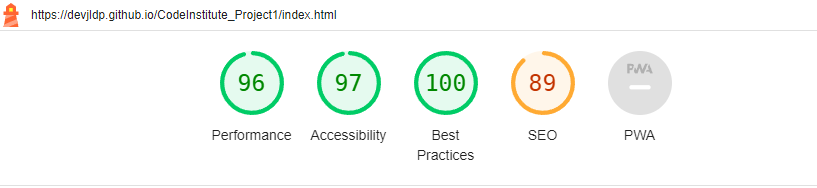
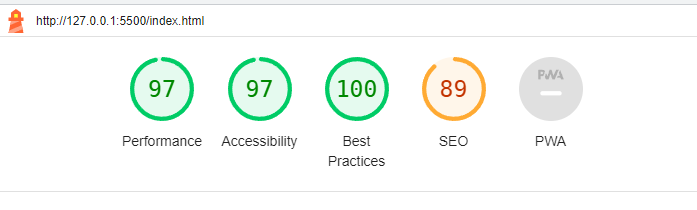
Updating readme and fixing lighthouse issues

diff --git a/contact.html b/contact.html
@@ -4,6 +4,7 @@
     <meta charset="UTF-8">
     <meta http-equiv="X-UA-Compatible" content="IE=edge">
     <meta name="viewport" content="width=device-width, initial-scale=1.0">
+    <meta name="description" content="Author: Jose Luis Diaz Pulgar">
     <title>Wedding Wishes & Dreams</title>
     <link rel="icon" href="assets/img/ring-icon.jpg">
     <link href="https://cdn.jsdelivr.net/npm/bootstrap@5.3.0-alpha3/dist/css/bootstrap.min.css" rel="stylesheet" integrity="sha384-KK94CHFLLe+nY2dmCWGMq91rCGa5gtU4mk92HdvYe+M/SXH301p5ILy+dN9+nJOZ" crossorigin="anonymous">
@@ -36,7 +37,7 @@
                                         <a href="gallery.html" class="navbar-link nav-item">Gallery</a>
                                     </li>
                                     <li class="navbar-item mr-2 inline-block-nav">
-                                        <a href="aboutus.html" class="navbar-link nav-item">About Us</a>
+                                        <a href="aboutus.html" class="navbar-link nav-item">About</a>
                                     </li>
                                     <li class="navbar-item mr-2 inline-block-nav">
                                         <a href="#" class="navbar-link nav-item active">Contact</a>
@@ -95,7 +96,7 @@
                         <input type="email" name="email" id="email" class="form-control" placeholder="email@example.com" required>
                     </div>
                     <div class="mt-2 text-area">
-                        <textarea name="question" id="question" cols="47" rows="10"></textarea>
+                        <textarea id="question" cols="47" rows="10" aria-label="message"></textarea>
                     </div>
                     <div class="text-center">
                         <button type="submit" class="btn btn-form">Send</button>
@@ -112,8 +113,7 @@
                         <li>Sunday: Closed</li>
                     </ul>
                 </div>
-                <iframe width="80%" height="300" frameborder="0" scrolling="no" marginheight="0" marginwidth="0" src="https://maps.google.com/maps?width=100%25&amp;height=600&amp;hl=en&amp;q=cardiff%20church%20st+(Wedding%20Wishes%20and%20Dreams)&amp;t=&amp;z=14&amp;ie=UTF8&amp;iwloc=B&amp;output=embed">
-                    <a href="https://www.maps.ie/distance-area-calculator.html">measure area map</a>
+                <iframe  height="300" src="https://maps.google.com/maps?width=100%25&amp;height=600&amp;hl=en&amp;q=cardiff%20church%20st+(Wedding%20Wishes%20and%20Dreams)&amp;t=&amp;z=14&amp;ie=UTF8&amp;iwloc=B&amp;output=embed" title="Wedding store" class = 'frame'>
                 </iframe>
             </div>
 
@@ -130,17 +130,17 @@
                     <p>Follow us:</p>
                     <ul class="text-center mt-3">
                         <li class="inline-block-foot">
-                            <a href="https://www.facebook.com/" target="_blank" rel="noopener noreferrer">
+                            <a href="https://www.facebook.com/" target="_blank" rel="noopener noreferrer" aria-label="facebook">
                                 <i class="fa-brands fa-square-facebook"></i>
                             </a>
                         </li>
                         <li class="inline-block-foot">
-                            <a href="https://twitter.com/" target="_blank" rel="noopener noreferrer">
+                            <a href="https://twitter.com/" target="_blank" rel="noopener noreferrer" aria-label="twitter">
                                 <i class="fa-brands fa-twitter"></i>
                             </a>
                         </li>
                         <li class="inline-block-foot">
-                            <a href="https://www.instagram.com/" target="_blank" rel="noopener noreferrer">
+                            <a href="https://www.instagram.com/" target="_blank" rel="noopener noreferrer" aria-label="instagram">
                                 <i class="fa-brands fa-instagram"></i>
                             </a>
                         </li>

diff --git a/index.html b/index.html
@@ -4,6 +4,7 @@
     <meta charset="UTF-8">
     <meta http-equiv="X-UA-Compatible" content="IE=edge">
     <meta name="viewport" content="width=device-width, initial-scale=1.0">
+    <meta name="description" content="Author: Jose Luis Diaz Pulgar">
     <title>Wedding Wishes & Dreams</title>
     <link rel="icon" href="assets/img/ring-icon.jpg">
     <link href="https://cdn.jsdelivr.net/npm/bootstrap@5.3.0/dist/css/bootstrap.min.css" rel="stylesheet" integrity="sha384-9ndCyUaIbzAi2FUVXJi0CjmCapSmO7SnpJef0486qhLnuZ2cdeRhO02iuK6FUUVM" crossorigin="anonymous">
@@ -38,7 +39,7 @@
                                             <a href="gallery.html" class="navbar-link nav-item">Gallery</a>
                                         </li>
                                         <li class="navbar-item mr-2 inline-block-nav">
-                                            <a href="aboutus.html" class="navbar-link nav-item">About Us</a>
+                                            <a href="aboutus.html" class="navbar-link nav-item">About</a>
                                         </li>
                                         <li class="navbar-item mr-2 inline-block-nav">
                                             <a href="contact.html" class="navbar-link nav-item">Contact</a>
@@ -100,17 +101,17 @@
                     <p>Follow us:</p>
                     <ul class="text-center mt-3">
                         <li class="inline-block-foot">
-                            <a href="https://www.facebook.com/" target="_blank" rel="noopener noreferrer">
+                            <a href="https://www.facebook.com/" target="_blank" rel="noopener noreferrer" aria-label="facebook">
                                 <i class="fa-brands fa-square-facebook"></i>
                             </a>
                         </li>
                         <li class="inline-block-foot">
-                            <a href="https://twitter.com/" target="_blank" rel="noopener noreferrer">
+                            <a href="https://twitter.com/" target="_blank" rel="noopener noreferrer" aria-label="twitter">
                                 <i class="fa-brands fa-twitter"></i>
                             </a>
                         </li>
                         <li class="inline-block-foot">
-                            <a href="https://www.instagram.com/" target="_blank" rel="noopener noreferrer">
+                            <a href="https://www.instagram.com/" target="_blank" rel="noopener noreferrer" aria-label="instagram">
                                 <i class="fa-brands fa-instagram"></i>
                             </a>
                         </li>

diff --git a/aboutus.html b/aboutus.html
@@ -4,6 +4,7 @@
     <meta charset="UTF-8">
     <meta http-equiv="X-UA-Compatible" content="IE=edge">
     <meta name="viewport" content="width=device-width, initial-scale=1.0">
+    <meta name="description" content="Author: Jose Luis Diaz Pulgar">
     <title>Wedding Wishes & Dreams</title>
     <link rel="icon" href="assets/img/ring-icon.jpg">
     <link href="https://cdn.jsdelivr.net/npm/bootstrap@5.3.0-alpha3/dist/css/bootstrap.min.css" rel="stylesheet" integrity="sha384-KK94CHFLLe+nY2dmCWGMq91rCGa5gtU4mk92HdvYe+M/SXH301p5ILy+dN9+nJOZ" crossorigin="anonymous">
@@ -36,7 +37,7 @@
                                         <a href="gallery.html" class="navbar-link nav-item">Gallery</a>
                                     </li>
                                     <li class="navbar-item mr-2 inline-block-nav">
-                                        <a href="aboutus.html" class="navbar-link nav-item active">About Us</a>
+                                        <a href="aboutus.html" class="navbar-link nav-item active">About</a>
                                     </li>
                                     <li class="navbar-item mr-2 inline-block-nav">
                                         <a href="contact.html" class="navbar-link nav-item">Contact</a>
@@ -122,17 +123,17 @@
                     <p>Follow us:</p>
                     <ul class="text-center mt-3">
                         <li class="inline-block-foot">
-                            <a href="https://www.facebook.com/" target="_blank" rel="noopener noreferrer">
+                            <a href="https://www.facebook.com/" target="_blank" rel="noopener noreferrer" aria-label="facebook">
                                 <i class="fa-brands fa-square-facebook"></i>
                             </a>
                         </li>
                         <li class="inline-block-foot">
-                            <a href="https://twitter.com/" target="_blank" rel="noopener noreferrer">
+                            <a href="https://twitter.com/" target="_blank" rel="noopener noreferrer" aria-label="twitter">
                                 <i class="fa-brands fa-twitter"></i>
                             </a>
                         </li>
                         <li class="inline-block-foot">
-                            <a href="https://www.instagram.com/" target="_blank" rel="noopener noreferrer">
+                            <a href="https://www.instagram.com/" target="_blank" rel="noopener noreferrer" aria-label="instagram">
                                 <i class="fa-brands fa-instagram"></i>
                             </a>
                         </li>

diff --git a/services.html b/services.html
@@ -4,6 +4,7 @@
     <meta charset="UTF-8">
     <meta http-equiv="X-UA-Compatible" content="IE=edge">
     <meta name="viewport" content="width=device-width, initial-scale=1.0">
+    <meta name="description" content="Author: Jose Luis Diaz Pulgar">
     <title>Wedding Wishes & Dreams</title>
     <link rel="icon" href="assets/img/ring-icon.jpg">
     <link href="https://cdn.jsdelivr.net/npm/bootstrap@5.3.0-alpha3/dist/css/bootstrap.min.css" rel="stylesheet" integrity="sha384-KK94CHFLLe+nY2dmCWGMq91rCGa5gtU4mk92HdvYe+M/SXH301p5ILy+dN9+nJOZ" crossorigin="anonymous">
@@ -36,7 +37,7 @@
                                         <a href="gallery.html" class="navbar-link nav-item">Gallery</a>
                                     </li>
                                     <li class="navbar-item mr-2 inline-block-nav">
-                                        <a href="aboutus.html" class="navbar-link nav-item">About Us</a>
+                                        <a href="aboutus.html" class="navbar-link nav-item">About</a>
                                     </li>
                                     <li class="navbar-item mr-2 inline-block-nav">
                                         <a href="contact.html" class="navbar-link nav-item">Contact</a>
@@ -154,17 +155,17 @@
                     <p>Follow us:</p>
                     <ul class="text-center mt-3">
                         <li class="inline-block-foot">
-                            <a href="https://www.facebook.com/" target="_blank" rel="noopener noreferrer">
+                            <a href="https://www.facebook.com/" target="_blank" rel="noopener noreferrer" aria-label="facebook">
                                 <i class="fa-brands fa-square-facebook"></i>
                             </a>
                         </li>
                         <li class="inline-block-foot">
-                            <a href="https://twitter.com/" target="_blank" rel="noopener noreferrer">
+                            <a href="https://twitter.com/" target="_blank" rel="noopener noreferrer" aria-label="twitter">
                                 <i class="fa-brands fa-twitter"></i>
                             </a>
                         </li>
                         <li class="inline-block-foot">
-                            <a href="https://www.instagram.com/" target="_blank" rel="noopener noreferrer">
+                            <a href="https://www.instagram.com/" target="_blank" rel="noopener noreferrer" aria-label="instagram">
                                 <i class="fa-brands fa-instagram"></i>
                             </a>
                         </li>

diff --git a/gallery.html b/gallery.html
@@ -4,6 +4,7 @@
     <meta charset="UTF-8">
     <meta http-equiv="X-UA-Compatible" content="IE=edge">
     <meta name="viewport" content="width=device-width, initial-scale=1.0">
+    <meta name="description" content="Author: Jose Luis Diaz Pulgar">
     <title>Wedding Wishes & Dreams</title>
     <link rel="icon" href="assets/img/ring-icon.jpg">
     <link href="https://cdn.jsdelivr.net/npm/bootstrap@5.3.0-alpha3/dist/css/bootstrap.min.css" rel="stylesheet" integrity="sha384-KK94CHFLLe+nY2dmCWGMq91rCGa5gtU4mk92HdvYe+M/SXH301p5ILy+dN9+nJOZ" crossorigin="anonymous">
@@ -36,7 +37,7 @@
                                         <a href="#" class="navbar-link nav-item active">Gallery</a>
                                     </li>
                                     <li class="navbar-item mr-2 inline-block-nav">
-                                        <a href="aboutus.html" class="navbar-link nav-item">About Us</a>
+                                        <a href="aboutus.html" class="navbar-link nav-item">About</a>
                                     </li>
                                     <li class="navbar-item mr-2 inline-block-nav">
                                         <a href="contact.html" class="navbar-link nav-item">Contact</a>
@@ -114,17 +115,17 @@
                     <p>Follow us:</p>
                     <ul class="text-center mt-3">
                         <li class="inline-block-foot">
-                            <a href="https://www.facebook.com/" target="_blank" rel="noopener noreferrer">
+                            <a href="https://www.facebook.com/" target="_blank" rel="noopener noreferrer" aria-label="facebook">
                                 <i class="fa-brands fa-square-facebook"></i>
                             </a>
                         </li>
                         <li class="inline-block-foot">
-                            <a href="https://twitter.com/" target="_blank" rel="noopener noreferrer">
+                            <a href="https://twitter.com/" target="_blank" rel="noopener noreferrer" aria-label="twitter">
                                 <i class="fa-brands fa-twitter"></i>
                             </a>
                         </li>
                         <li class="inline-block-foot">
-                            <a href="https://www.instagram.com/" target="_blank" rel="noopener noreferrer">
+                            <a href="https://www.instagram.com/" target="_blank" rel="noopener noreferrer" aria-label="instagram">
                                 <i class="fa-brands fa-instagram"></i>
                             </a>
                         </li>

diff --git a/assets/css/style.css b/assets/css/style.css
@@ -335,3 +335,7 @@ h3, h4, h5 {
         width: 100%;
     }
 }
+
+.frame {
+    width: 80%;
+}

diff --git a/README.md b/README.md
@@ -124,9 +124,16 @@ All the wireframes from the design phase have been created using the following t
 # Testing
 
 * [HTML Validator](https://validator.w3.org/) was run at several points during the project and small syntax errors identified were fixed. At the final stage no errors or warnings were found.  
-![alt text](Documentation/filesTest/htmlTest.JPG)
+![alt text](Documentation/filesTest/validationHTMLIndex.PNG)
+![alt text](Documentation/filesTest/validationHTMLServices.PNG)
+![alt text](Documentation/filesTest/validationHTMLGallery.PNG)
+![alt text](Documentation/filesTest/validationHTMLAbout.PNG)
+![alt text](Documentation/filesTest/validationHTMLContact.PNG)  
+
 * [CSS Validator](https://jigsaw.w3.org/css-validator/) was run several times during the project and picked up small syntax errors which were corrected. At the time of submission the css code successfully passed the validator with no errors.
-![alt text](Documentation/filesTest/cssTest.JPG)
+![alt text](Documentation/filesTest/validationFooterCSS.PNG)
+![alt text](Documentation/filesTest/validationNavBarCSS.PNG)
+![alt text](Documentation/filesTest/validationStyleCSS.PNG)
 
 ## User Stories Testing
 
@@ -157,6 +164,29 @@ All the wireframes from the design phase have been created using the following t
 * Broser compatibility:    
 ![alt text](Documentation/manualTest/browserCompatibility.JPG)
 
+## Lighthouse
+
+#### Before improvements:
+
+![alt text](Documentation/filesTest/lighthouseIndex.PNG)
+![alt text](Documentation/filesTest/lighthouseServices.PNG)
+![alt text](Documentation/filesTest/lighthouseGallery.PNG)
+![alt text](Documentation/filesTest/lighthouseContact.PNG)
+
+
+Some of the improvement I did were:
+* Adding associated labels to form element
+* Adding title to frame elements
+* Adding aria-label to links element in the footer section
+  Adding meta description to head
+
+
+#### After improvements:  
+![alt text](Documentation/filesTest/lighthouseIndex1.PNG)
+![alt text](Documentation/filesTest/lighthouseServices1.PNG)
+![alt text](Documentation/filesTest/lighthouseGallery1.PNG)
+![alt text](Documentation/filesTest/lighthouseAbout.PNG)
+![alt text](Documentation/filesTest/lighthouseContact1.PNG)
 
 
 # Deployment
@@ -171,10 +201,10 @@ The site was deployed to GitHub pages. The steps taken to deploy are as follows:
 * The link to the live website is here: [Wedding: Wishes and Dreams](https://devjldp.github.io/CodeInstitute_Project1/)
 
 # Bugs
-The button that displays the menu on mobile size shows the menu, but it doesn't respond. The bug, which was caused by adding unnecessary Bootstrap scripts, has been fixed.  
-The menu displayed on mobile size appeared centered without alignment, displaying an untidy appearance. It has been fixed by aligning the text to the left.  
-When we are on the services page, the link is not displayed as active. The error was that the "active" class was missing.
-It is presumed that Chrome developer tools is in general not as accurate as the physical devices. In several cases what was displayed on the responsiveness testing in Chrome development tools was not exactly as appeared on actual devices so changes were always checked on actual devices for final approval.
+* The button that displays the menu on mobile size shows the menu, but it doesn't respond. The bug, which was caused by adding unnecessary Bootstrap scripts, has been fixed.  
+* The menu displayed on mobile size appeared centered without alignment, displaying an untidy appearance. It has been fixed by aligning the text to the left.  
+W* hen we are on the services page, the link is not displayed as active. The error was that the "active" class was missing.
+* It is presumed that Chrome developer tools is in general not as accurate as the physical devices. In several cases what was displayed on the responsiveness testing in Chrome development tools was not exactly as appeared on actual devices so changes were always checked on actual devices for final approval.
 
  
 
